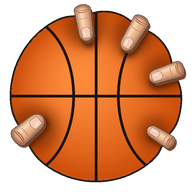
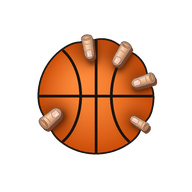
Ícone da tela inicial: bola grande com os dedos inteiros dentro da área visível do Android
Claude-Session: https://claude.ai/code/session_01DAz4iiq8WYmx5pkwcnmPEe

diff --git a/sw.js b/sw.js
@@ -1,5 +1,5 @@
 /* ArduLab: abre offline e pega a versão nova sempre que houver internet (rede primeiro). */
-const C='ardulab-v4';
+const C='ardulab-v5';
 self.addEventListener('install',e=>{self.skipWaiting();e.waitUntil(caches.open(C).then(c=>c.addAll(['./','./index.html','./manifest.json','./icon-192.png','./icon-512.png']).catch(()=>{})))});
 self.addEventListener('activate',e=>e.waitUntil(self.clients.claim()));
 self.addEventListener('fetch',e=>{const u=new URL(e.request.url);if(e.request.method!=='GET'||u.origin!==location.origin)return;
